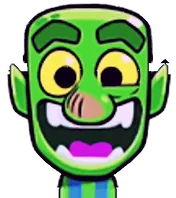
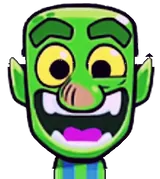
Shrink the laughing goblin by 10%
The frames are re-rendered at the new size, so the pixel density is unchanged. The goblin now matches the princess's size in the picker and bubbles.

diff --git a/src/client/components/emotes.tsx b/src/client/components/emotes.tsx
@@ -25,7 +25,7 @@ const EMOTES: Record<Emote["id"], { size: string; bust?: boolean }> = {
   perso: { size: "h-[86px] w-[108px]" },
   goblin: { size: "h-[53.7px] w-[76px]", bust: true },
   princess: { size: "h-[58.4px] w-[45.9px]", bust: true },
-  laughingGoblin: { size: "h-[60px] w-[53.3px]", bust: true },
+  laughingGoblin: { size: "h-[54.2px] w-[48.5px]", bust: true },
 };
 
 function EmoteArt({ id, animated = false }: { id: Emote["id"]; animated?: boolean }) {
